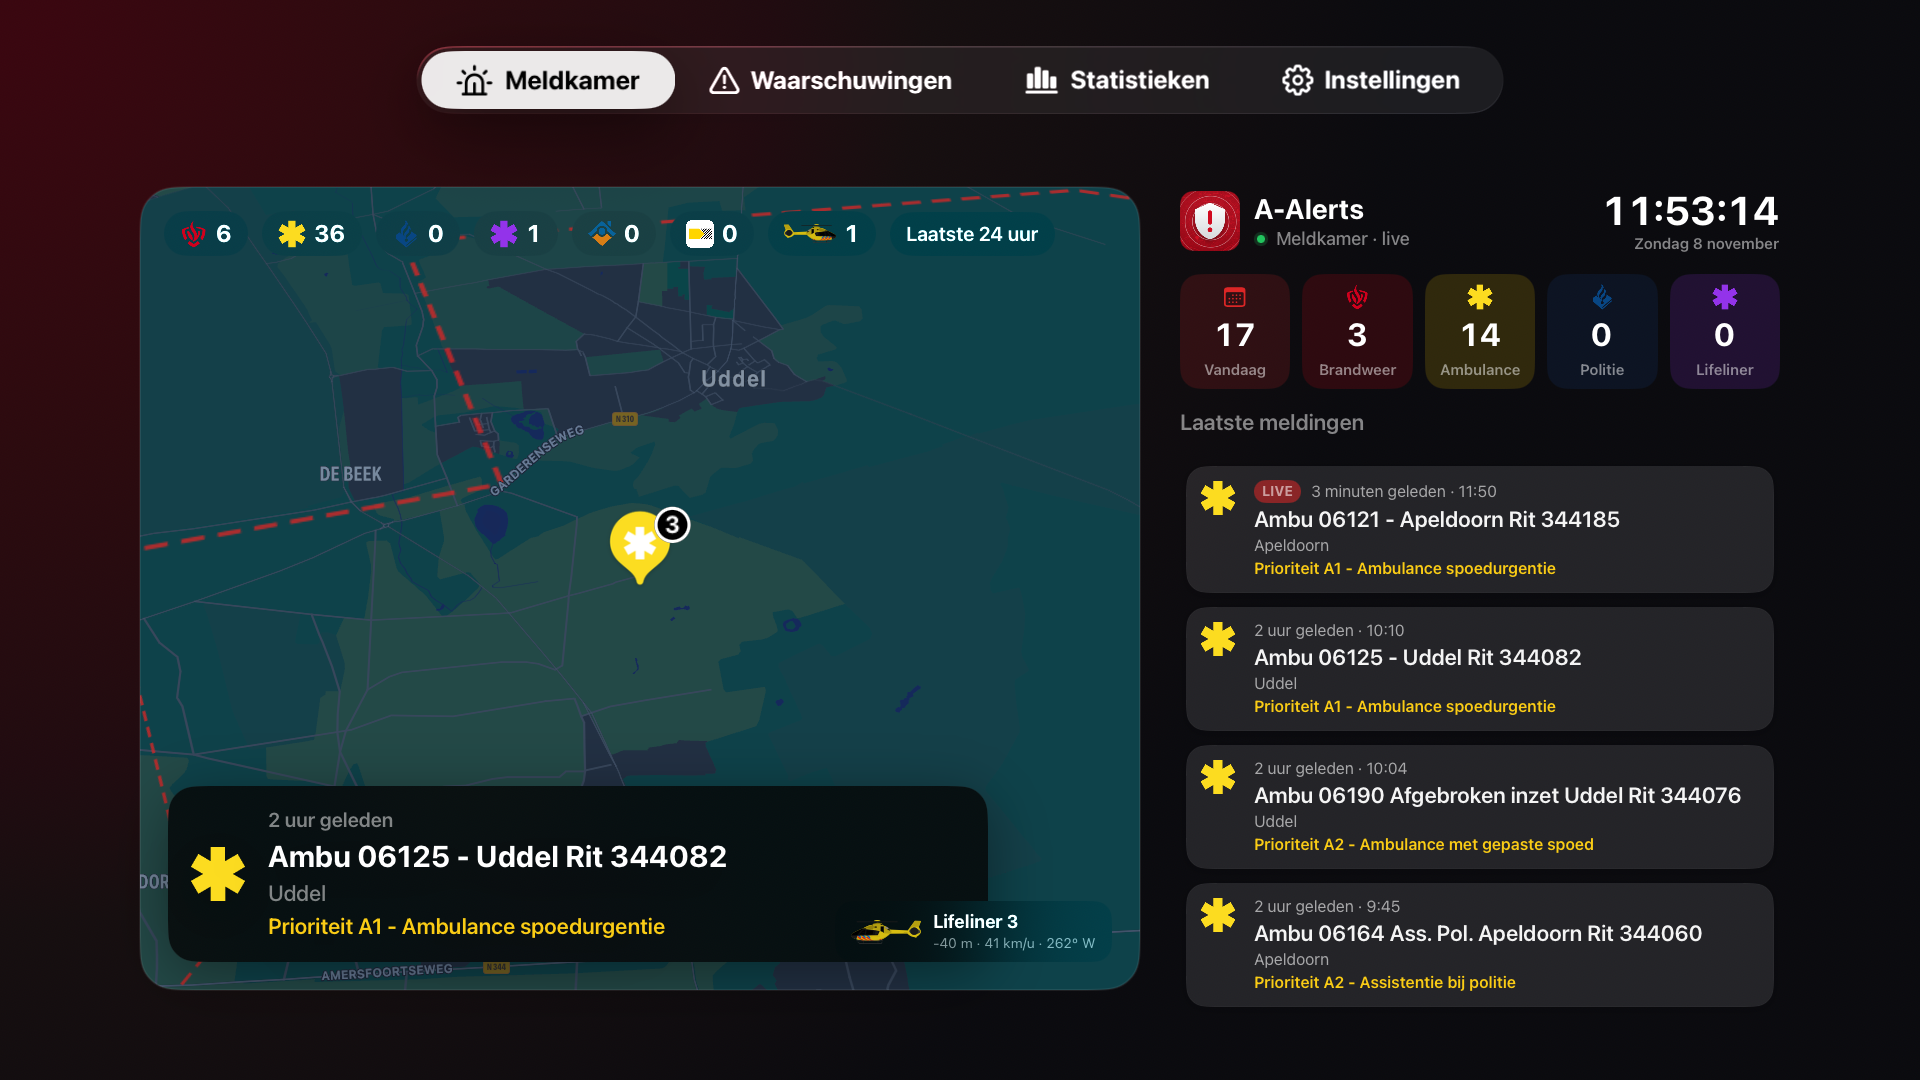
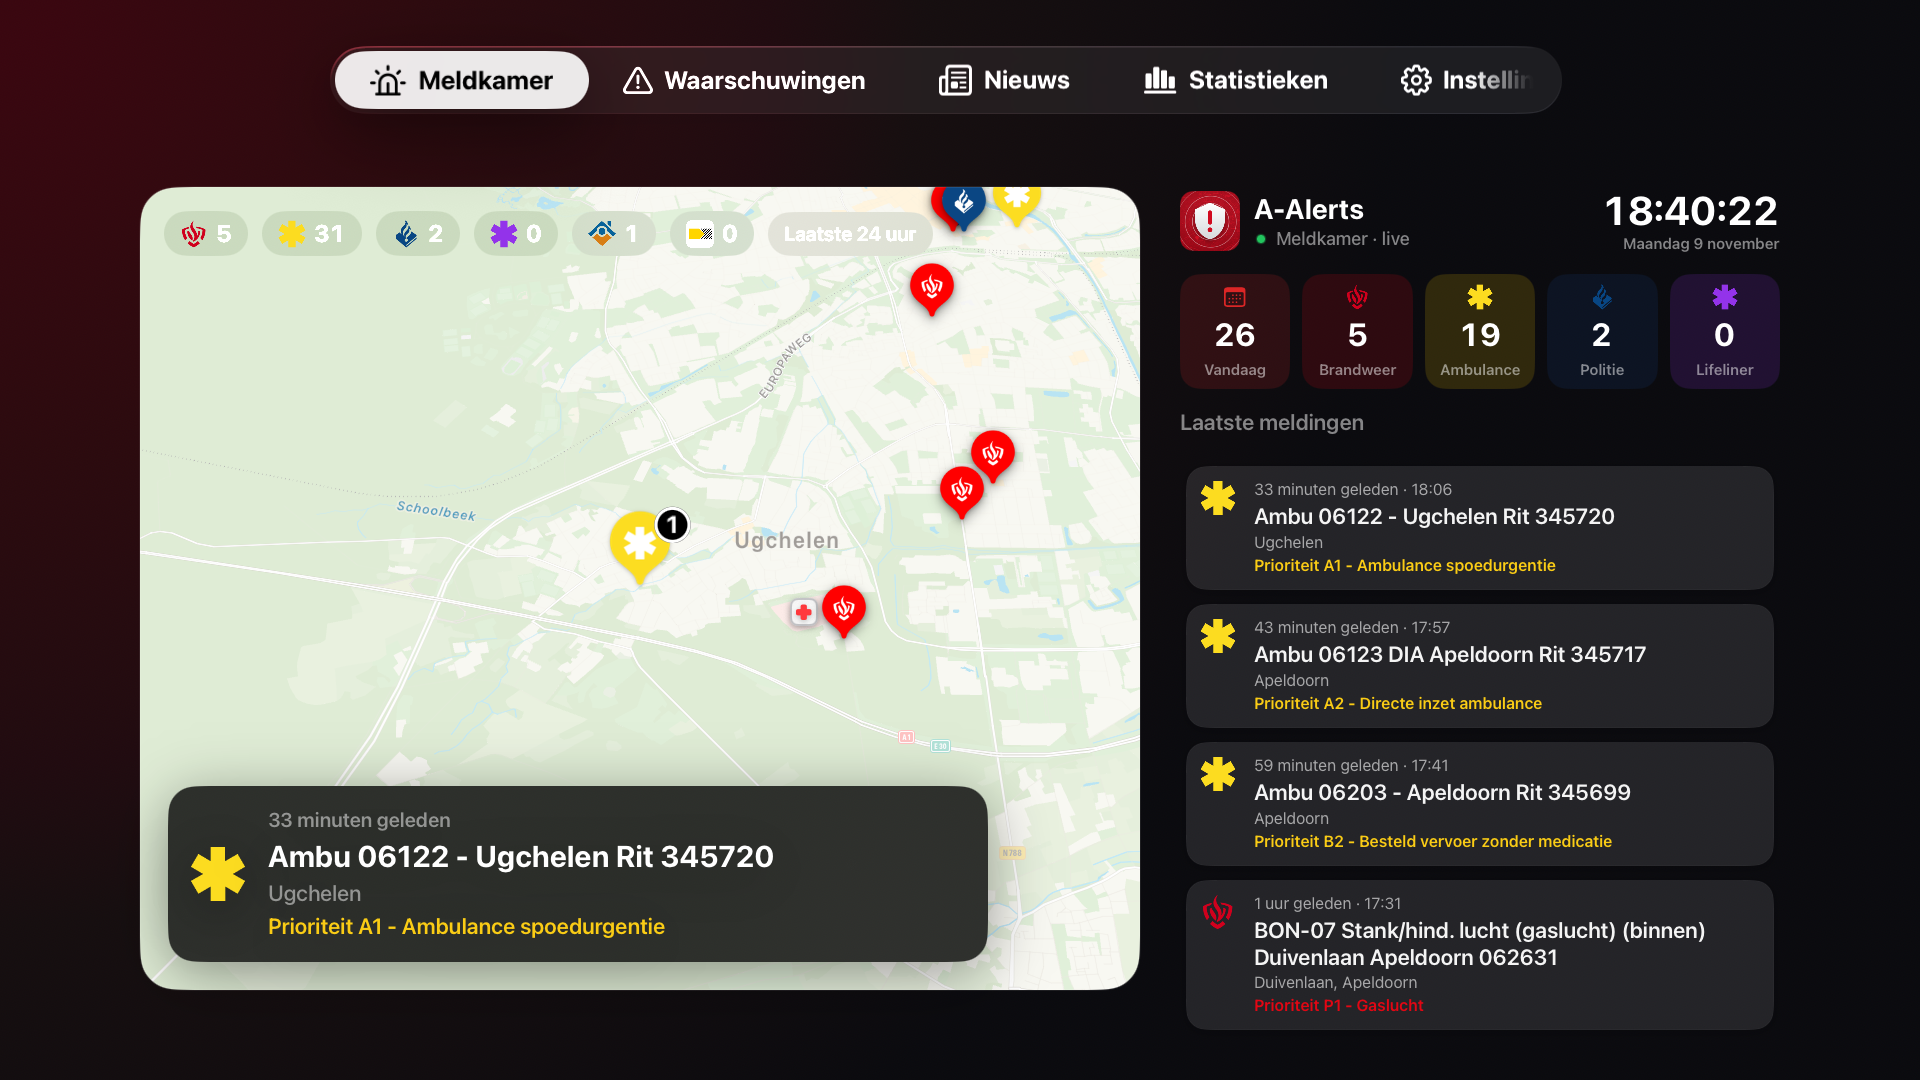
App Store content 2.0.1 en nieuwe website-afbeeldingen met het tabblad Nieuws
Claude-Session: https://claude.ai/code/session_01CXMY93tUivvJNkpfMAQTgP

diff --git a/website/index.html b/website/index.html
@@ -36,7 +36,7 @@
 <link rel="stylesheet" href="assets/css/landing.css?v=58">
 <script src="config.js?v=57"></script>
 <script src="assets/js/consent.js?v=57" defer></script>
-<script type="module" src="assets/js/landing.js?v=57"></script>
+<script type="module" src="assets/js/landing.js?v=58"></script>
 </head>
 <body class="landing">
 
@@ -90,7 +90,7 @@
       </div>
       <div class="hero-device" data-reveal style="--d:.2s">
         <div class="phone tilt" id="heroPhone">
-          <div class="glass"><img src="assets/img/screen-pager.webp?v=57" alt="De Pager in de app A-Alerts: alle meldingen en waarschuwingen live" width="440" height="956"></div>
+          <div class="glass"><img src="assets/img/screen-pager.webp?v=58" alt="De Pager in de app A-Alerts: alle meldingen en waarschuwingen live" width="440" height="956"></div>
           <span class="island"></span>
         </div>
         <div class="notes" id="notes" aria-live="polite"></div>
@@ -115,10 +115,11 @@
       <div class="scrolly-device">
         <div class="phone small">
           <div class="glass" id="featureGlass">
-            <img class="is-on" data-screen="pager" src="assets/img/screen-pager.webp?v=57" alt="" loading="lazy">
-            <img data-screen="map" src="assets/img/screen-map.webp?v=57" alt="" loading="lazy">
-            <img data-screen="detail" src="assets/img/screen-detail.webp?v=57" alt="" loading="lazy">
-            <img data-screen="meteo" src="assets/img/screen-meteo.webp?v=57" alt="" loading="lazy">
+            <img class="is-on" data-screen="pager" src="assets/img/screen-pager.webp?v=58" alt="" loading="lazy">
+            <img data-screen="map" src="assets/img/screen-map.webp?v=58" alt="" loading="lazy">
+            <img data-screen="nieuws" src="assets/img/screen-nieuws.webp?v=58" alt="" loading="lazy">
+            <img data-screen="detail" src="assets/img/screen-detail.webp?v=58" alt="" loading="lazy">
+            <img data-screen="meteo" src="assets/img/screen-meteo.webp?v=58" alt="" loading="lazy">
             <img data-screen="notif" src="assets/img/screen-lock.webp" alt="" loading="lazy">
             <img data-screen="home" src="assets/img/screen-home.webp" alt="" loading="lazy">
           </div>
@@ -136,23 +137,28 @@
           <h3>Direct op de kaart</h3>
           <p>Apple Kaarten met de markers van brandweer, ambulance, politie en Lifeliner, live Lifeliners en Zulu's, kazernes, de grens van het werkgebied en NL-Alert-gebieden. Elke laag zet je zelf aan of uit.</p>
         </article>
+        <article class="step" data-step="nieuws">
+          <span class="step-ico" style="--c:#0067B1">03</span>
+          <h3>Al het nieuws</h3>
+          <p>Het tabblad Nieuws: politieberichten over Apeldoorn, de dorpen en buurtschappen, 112 Nieuws per plaats, een artikel bij elke KNMI-weerwaarschuwing en een liveblog bij Burgernet, AMBER Alert en Vermist Kind Alert, met het nieuwste bericht bovenaan. Ook op <a href="nieuws/">a-alerts.nl/nieuws</a>.</p>
+        </article>
         <article class="step" data-step="detail">
-          <span class="step-ico" style="--c:var(--ambulance)">03</span>
+          <span class="step-ico" style="--c:var(--ambulance)">04</span>
           <h3>Alles over de melding</h3>
           <p>Een grote kaart met Look Around, de gealarmeerde kazernes met hun route en geschatte aankomst, het verloop van de inzet, capcodes, voertuigen en het weer. Route via Apple Kaarten of Google Maps, en delen met één tik.</p>
         </article>
         <article class="step" data-step="meteo">
-          <span class="step-ico" style="--c:#0ea5e9">04</span>
+          <span class="step-ico" style="--c:#0ea5e9">05</span>
           <h3>NL-Alert, Burgernet, AMBER Alert en KNMI</h3>
           <p>NL-Alert, Burgernet, AMBER Alert en Vermist Kind Alert staan tussen de meldingen; loopt er een oproep voor een vermist kind, dan staat die ook als balk bovenaan. Een KNMI-weercode zie je zoals op knmi.nl: kop, risico's en advies, het verloop per code en het weer van nu. Is de code opgeheven, dan staat er code groen, en zie je nog welke code er gold.</p>
         </article>
         <article class="step" data-step="notif">
-          <span class="step-ico" style="--c:var(--brandweer)">05</span>
+          <span class="step-ico" style="--c:var(--brandweer)">06</span>
           <h3>Mis geen melding</h3>
           <p>Pushmeldingen met een kaartje van de plek, voor maximaal vijf profielen met eigen plaatsen, hulpdiensten, prioriteiten, waarschuwingen en tijden. Volg een capcode met een ster, en zie bij elke melding waarom je wel of geen pushmelding kreeg. Kritieke A1- en P1-meldingen komen er altijd door.</p>
         </article>
         <article class="step" data-step="home">
-          <span class="step-ico" style="--c:var(--traumaheli)">06</span>
+          <span class="step-ico" style="--c:var(--traumaheli)">07</span>
           <h3>Widgets overal</h3>
           <p>De laatste melding, een lijst of de cijfers van vandaag op je beginscherm, vergrendelscherm, Mac-bureaublad en Apple Watch-wijzerplaat.</p>
         </article>
@@ -214,7 +220,7 @@
         <img src="assets/img/mac-split.webp" alt="De app op de Mac met lijst en detail naast elkaar" loading="lazy">
       </div>
       <div class="ipad-frame" data-reveal style="--d:.15s">
-        <img src="assets/img/ipad-split.webp" alt="De app op de iPad" loading="lazy">
+        <img src="assets/img/ipad-split.webp?v=58" alt="De app op de iPad" loading="lazy">
       </div>
       <div class="watch-frame" data-reveal style="--d:.3s">
         <span class="watch-band top"></span><span class="watch-band bottom"></span>

diff --git a/website/assets/js/landing.js b/website/assets/js/landing.js
@@ -27,7 +27,7 @@ if (phone && matchMedia("(pointer: fine)").matches && !matchMedia("(prefers-redu
 }
 
 // Feature scrolly: swap the phone screen with the active step.
-const glows = { pager: "rgba(220,38,38,.45)", map: "rgba(37,99,235,.45)", detail: "rgba(244,196,0,.4)", meteo: "rgba(14,165,233,.45)", notif: "rgba(227,6,19,.45)", home: "rgba(147,51,234,.45)" };
+const glows = { pager: "rgba(220,38,38,.45)", map: "rgba(37,99,235,.45)", nieuws: "rgba(0,103,177,.45)", detail: "rgba(244,196,0,.4)", meteo: "rgba(14,165,233,.45)", notif: "rgba(227,6,19,.45)", home: "rgba(147,51,234,.45)" };
 const steps = document.querySelectorAll(".step");
 const screens = document.querySelectorAll("#featureGlass img");
 const device = document.querySelector(".scrolly-device");

diff --git a/AppStore/README.md b/AppStore/README.md
@@ -1,4 +1,4 @@
-# A-Alerts 2.0.0 – App Store-materiaal
+# A-Alerts 2.0.1 – App Store-materiaal
 
 Alles voor App Store Connect, voor iPhone, iPad, Mac, Apple Watch en Apple TV.
 
@@ -8,16 +8,16 @@ Alles voor App Store Connect, voor iPhone, iPad, Mac, Apple Watch en Apple TV.
 - **App Review-notities:** Engels (`metadata/review_information/notes.txt`), Nederlandse kopie ter referentie (`notes-nl.txt`, niet uploaden).
 
 ## Herkomst van de schermen
-Echte schermen uit de app (build 47), gemaakt in de simulator en op een Mac met live data (workflows `screenshots.yml` en `mac-shots.yml`, branches `screenshots` en `screenshots-mac`). Afbeeldingen alleen in het Nederlands (nl-NL), op verzoek van Léon; de Engelse winkelpagina toont dan automatisch de Nederlandse beelden. Per apparaat: iPhone 8 (6,3" en 6,1"; met het welkomscherm en een KNMI-weercode), iPad 7, Mac 4, Apple Watch 3, Apple TV 3. Opnames van 8 november. Een helikopter met route ontbreekt: bij de opnames vloog er geen heli; `screenshots.yml` neemt hem vanzelf mee (`-AAlertsHeli`) als hij draait terwijl er een Lifeliner of Zulu vliegt. Mac: venster van de echte Mac-app (runner-scherm 1024×768, daarom één Mac-screenshot). Apple Watch en Apple TV: alleen het scherm, zonder kader (Apple-richtlijn).
+Echte schermen uit de app (build 68), gemaakt in de simulator met live data (workflow `screenshots.yml`, branch `screenshots`, 9 november). Afbeeldingen alleen in het Nederlands (nl-NL), op verzoek van Léon; de Engelse winkelpagina toont dan de Nederlandse beelden. Nieuw in 2.0.1: tabblad Nieuws, liveblog en artikel (112 Nieuws). iPhone en iPad 10, Apple Watch 4 (met Nieuws), Apple TV 3, Mac 4 (ongewijzigd uit 2.0.0; de Mac- en TV-opname van het tabblad Nieuws lukte in de CI niet). Apple Watch en Apple TV: alleen het scherm, zonder kader.
 
 ## Inhoud
 | Map | Maten | Aantal per taal |
 |---|---|---|
-| `screenshots/<taal>/iphone-6.3` | 1206×2622 | 8 |
-| `screenshots/<taal>/iphone-6.1` | 1179×2556 | 8 |
-| `screenshots/<taal>/ipad-13` | 2064×2752 | 7 |
-| `screenshots/<taal>/mac` | 2880×1800 | 1 |
-| `screenshots/<taal>/watch` | 410×502 | 1 |
+| `screenshots/<taal>/iphone-6.3` | 1206×2622 | 10 |
+| `screenshots/<taal>/iphone-6.1` | 1179×2556 | 10 |
+| `screenshots/<taal>/ipad-13` | 2064×2752 | 10 |
+| `screenshots/<taal>/mac` | 2880×1800 | 4 |
+| `screenshots/<taal>/watch` | 410×502 | 4 |
 | `screenshots/<taal>/appletv` | 1920×1080 | 3 |
 | `marketing/<taal>` | header 5244×2950 + 3840×1646, search 5244×2950 + 3840×2560 + 1920×1280 | 5 |
 | `metadata/` | fastlane-deliver-indeling: naam, ondertitel, promotietekst, beschrijving, trefwoorden, release notes, URL's, privacy, review-info | – |
@@ -26,7 +26,7 @@ Echte schermen uit de app (build 47), gemaakt in de simulator en op een Mac met 
 Alle PNG's zijn RGB zonder alfakanaal, in de exacte maten van Apple.
 
 ## Uploadchecklist
-1. App Store Connect › A-Alerts › 2.0.0: screenshots per toestel en taal uit `screenshots/`.
+1. App Store Connect › A-Alerts › 2.0.1: screenshots per toestel en taal uit `screenshots/`.
 2. Teksten per taal uit `metadata/nl-NL` en `metadata/en-US`.
 3. App-informatie: categorie Nieuws + Navigatie, privacy-URL https://a-alerts.nl/privacy/.
 4. App Privacy: tabel uit `app-info.md`.
